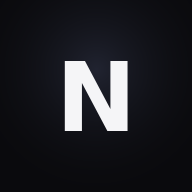
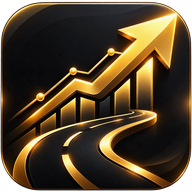
feat: aplica a nova identidade visual oficial do NESC (ícone preto e dourado)
- Ícone oficial NESC (preto/dourado premium) aplicado em: favicon
  (.ico 16/32/48 + PNG 32), ícones PWA 192/512 (any), ícone maskable
  512 com zona de segurança, apple-touch-icon 180 (fundo preto, sem
  transparência para o iOS) e marca na tela de login (acima do wordmark).
- Imagem de compartilhamento (Open Graph/Twitter) recriada em 1200x630
  com o ícone + wordmark NESC + tagline, acabamento preto e dourado
  (recurso horizontal, não o ícone quadrado).
- Fonte: imagem oficial 1254x1254 RGBA; proporção preservada, canal alfa
  mantido nos ícones 'any', sem distorção.
- manifest.webmanifest: ícone maskable agora aponta para o arquivo
  dedicado; build.mjs copia os novos recursos para www/.
- Sem re-tema do layout, sem troca de ícones funcionais, sem alterar
  autenticação, rotas ou identificadores internos.

Claude-Session: https://claude.ai/code/session_01V4sAiB6vG5tahSSHdTkgXN

diff --git a/index.html b/index.html
@@ -12,6 +12,7 @@
 <meta name="apple-mobile-web-app-title" content="NESC" />
 <link rel="manifest" href="/manifest.webmanifest" />
 <link rel="icon" href="/favicon.ico" sizes="any" />
+<link rel="icon" type="image/png" href="/favicon-32.png" sizes="32x32" />
 <link rel="icon" type="image/png" href="/icon-192.png" sizes="192x192" />
 <link rel="apple-touch-icon" href="/apple-touch-icon.png" />
 <!-- Open Graph / prévia ao compartilhar (WhatsApp, Telegram, redes sociais) -->
@@ -48,6 +49,7 @@ body,html{width:100%;height:100%;overflow:hidden;background:var(--bg);color:var(
 .layout-container{position:relative;z-index:2;display:flex;width:100vw;height:100%;pointer-events:none}
 .left-panel{pointer-events:auto;width:45%;min-width:380px;max-width:520px;height:100%;display:flex;flex-direction:column;justify-content:center;padding:calc(20px + var(--sat)) 60px calc(20px + var(--sab));overflow-y:auto;background:linear-gradient(90deg,rgba(5,5,5,.95) 0%,rgba(5,5,5,.7) 70%,rgba(5,5,5,0) 100%);backdrop-filter:blur(8px);-webkit-backdrop-filter:blur(8px)}
 .right-panel{flex:1;height:100%}
+.brand-mark{width:64px;height:64px;border-radius:16px;display:block;margin-bottom:18px}
 .brand-title{font-size:2.8rem;font-weight:600;letter-spacing:-1.2px;line-height:1.1;margin-bottom:12px;background:linear-gradient(180deg,#fff 0%,#a1a1aa 100%);-webkit-background-clip:text;-webkit-text-fill-color:transparent}
 .brand-subtitle{font-size:.95rem;color:#71717a;margin-bottom:32px;line-height:1.5}
 .auth-tabs{display:flex;gap:16px;margin-bottom:24px;border-bottom:1px solid var(--line);padding-bottom:8px}
@@ -277,6 +279,7 @@ window.NSC_CONFIG=Object.assign({supabaseUrl:'',supabaseAnonKey:'',aiEndpoint:''
 
 <div class="layout-container" id="auth">
   <div class="left-panel">
+    <img class="brand-mark" src="/icon-192.png" width="64" height="64" alt="NESC" />
     <h1 class="brand-title">NESC</h1>
     <p class="brand-subtitle">Acesse seu ecossistema ou crie uma nova conta para começar.</p>
     <div class="auth-tabs" role="tablist">
